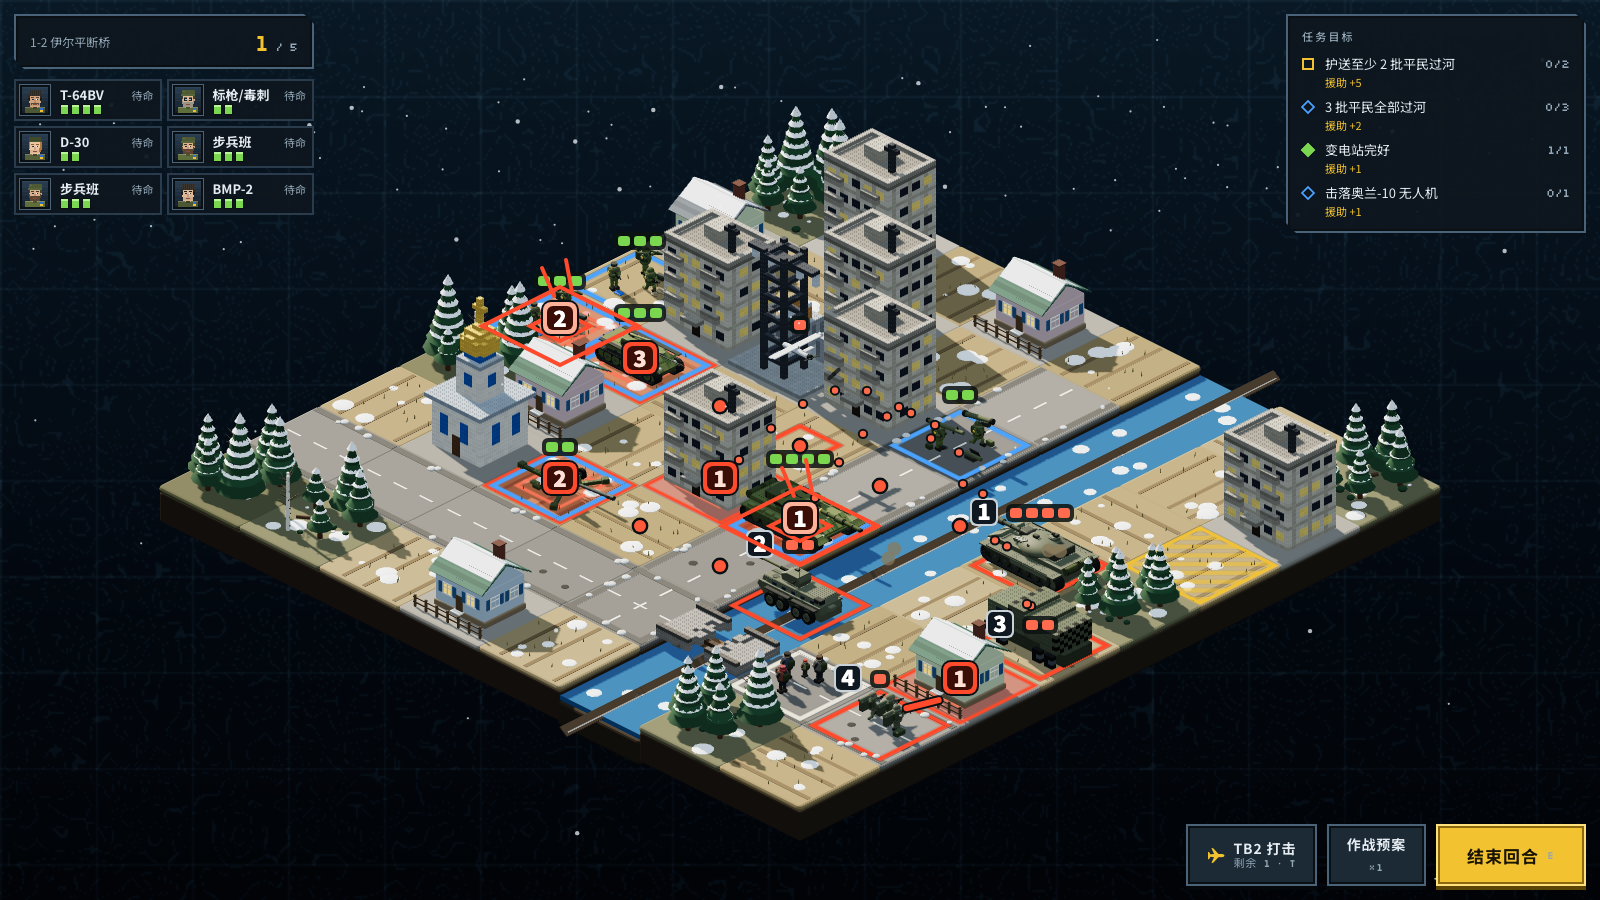
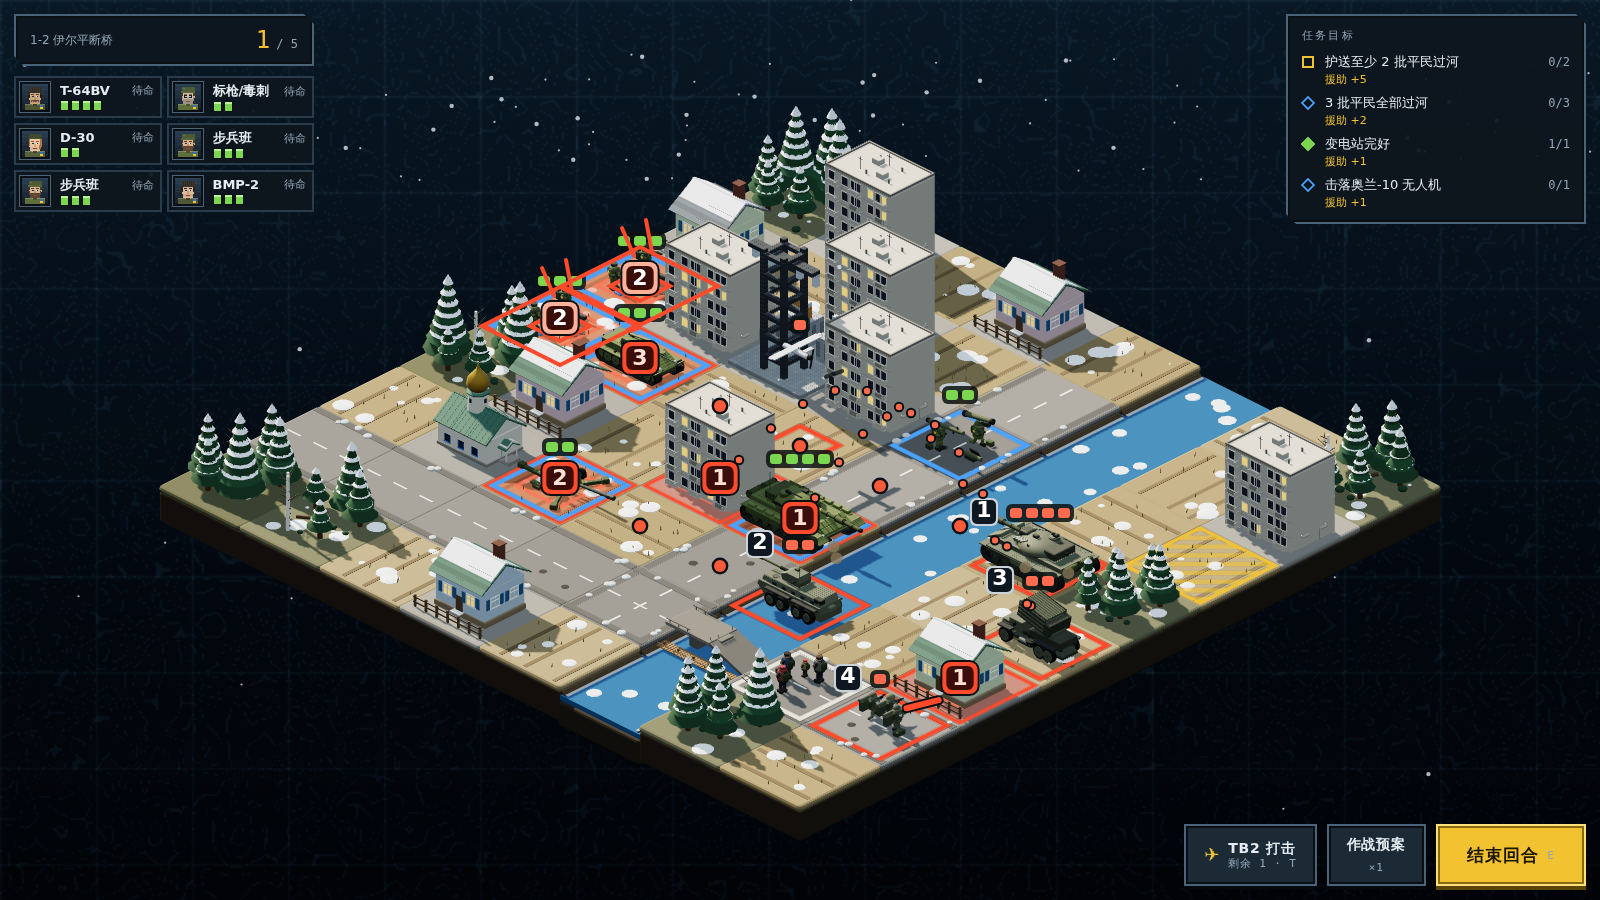
T-34: fix shoreline edge coordinates (grid y is world z); board T-34 done
Claude-Session: https://claude.ai/code/session_01AwfH6u4m5DCVxaiMRmbgB9

diff --git a/game/js/scene3d.js b/game/js/scene3d.js
@@ -190,15 +190,18 @@ function tileDetails(g, x, y, t, seed) {
   };
   const flat = (geo, m, px, py, pz, rx, ry, rz) => { const o = part(g, geo, m, px, py, pz, rx, ry, rz); o.castShadow = false; return o; };
   const edges = [];
-  if (NOSEA(x, y - 1)) edges.push([-9.3, 0, 0]);
-  if (NOSEA(x, y + 1)) edges.push([9.3, 0, Math.PI]);
-  if (NOSEA(x - 1, y)) edges.push([0, -9.3, -HALF_PI]);
-  if (NOSEA(x + 1, y)) edges.push([0, 9.3, HALF_PI]);
+  // grid x is world x, grid y is world z
+  if (NOSEA(x, y - 1)) edges.push([0, -9.3]);
+  if (NOSEA(x, y + 1)) edges.push([0, 9.3]);
+  if (NOSEA(x - 1, y)) edges.push([-9.3, 0]);
+  if (NOSEA(x + 1, y)) edges.push([9.3, 0]);
   if (isWater(t) || t.t === 'd') {
     // foam along every land edge, plus a tilted mud bank hiding the seam
-    for (const [ex, ez, ea] of edges) {
-      flat(new THREE.BoxGeometry(ea === 0 ? 19 : 1.2, 0.12, ea === 0 ? 1.2 : 19), mat3('#e6eef2', 0.6, 0, { transparent: true, opacity: 0.75 }), ex * 0.97, -1.72, ez * 0.97);
-      flat(new THREE.BoxGeometry(ea === 0 ? 19.4 : 2.2, 0.25, ea === 0 ? 2.2 : 19.4), mat3('#5a4a36', 0.95), ex * 1.02, -1.55, ez * 1.02, ea === 0 ? 0.6 * (ez >= 0 ? 1 : -1) : 0, 0, ea === 0 ? 0 : 0.6 * (ex >= 0 ? -1 : 1));
+    for (const [ex, ez] of edges) {
+      // an edge at x = +-9.3 runs along z, one at z = +-9.3 along x; the bank rises toward the land side
+      const alongZ = ex !== 0;
+      flat(new THREE.BoxGeometry(alongZ ? 1.2 : 19, 0.12, alongZ ? 19 : 1.2), mat3('#e6eef2', 0.6, 0, { transparent: true, opacity: 0.75 }), ex * 0.97, -1.72, ez * 0.97);
+      flat(new THREE.BoxGeometry(alongZ ? 2.2 : 19.4, 0.25, alongZ ? 19.4 : 2.2), mat3('#5a4a36', 0.95), ex * 1.02, -1.55, ez * 1.02, alongZ ? 0 : (ez > 0 ? -0.6 : 0.6), 0, alongZ ? (ex > 0 ? 0.6 : -0.6) : 0);
     }
     if (t.t === 'w') for (let k = 0; k < 2 + Math.floor(hash(x, y, 31) * 3); k++) {
       const ice = flat(cyl(0.8 + hash(x, y, 40 + k) * 1.0, 0.8 + hash(x, y, 41 + k) * 0.8, 0.14, 9), mat3('#dfe9ee', 0.5), -7 + hash(x, y, 42 + k) * 14, -1.75, -7 + hash(y, x, 43 + k) * 14);

diff --git a/docs/tasks/T-34-地形细化.md b/docs/tasks/T-34-地形细化.md
@@ -78,3 +78,13 @@
 ## 审查意见（审查方写）
 
 ## 审查意见（审查方写）
+
+### 第 1 轮
+审查提交：4bcdd11
+结论：通过（审查方修了一处坐标错误）
+
+公路脏雪、跑道灯、犁沟、倒木灌木、沙纹卵石都对，数量克制，没有抢单位的戏。
+
+一处错误由审查方直接修了：`tileDetails` 里水边 `edges` 的坐标把网格 y 当成了世界 x。游戏里网格 x 对应世界 x、网格 y 对应世界 z（见 `buildTile` 的 `g.position.set(x * TS, 0, y * TS)`），所以泥岸和浪花条画到了错的边上，在海边和河边形成一条伸出地图外的棕色“栏杆”。已改为 `(x, y±1)` → `[0, ±9.3]`、`(x±1, y)` → `[±9.3, 0]`，并按边的走向决定长条方向和倾斜轴。`m1-turn1.png`、`m3-turn1.png` 已重拍。
+
+执行方下次注意：写方位相关的代码前，先在 `scene3d.js` 里找到网格到世界坐标的换算，再动手。

diff --git a/docs/tasks/BOARD.md b/docs/tasks/BOARD.md
@@ -40,5 +40,5 @@
 | T-31 | [精修 3D：乡村东正教教堂 bld:c](T-31-精修教堂.md) | 已完成 | T-16 | 2 |
 | T-32 | [精修 3D：变电站 bld:S 与机库 bld:H](T-32-精修变电站与机库.md) | 已完成 | T-16 | 2 |
 | T-33 | [精修 3D：建筑废墟 bld:rubble 与伊尔平断桥 prop:bridge](T-33-精修废墟与断桥.md) | 已完成 | T-16 | 2 |
-| T-34 | [3D 地形细化](T-34-地形细化.md) | 待开发 | — | 0 |
+| T-34 | [3D 地形细化](T-34-地形细化.md) | 已完成 | — | 1 |
 | T-35 | [3D 烟柱与烟团](T-35-3D烟柱.md) | 待开发 | — | 0 |
